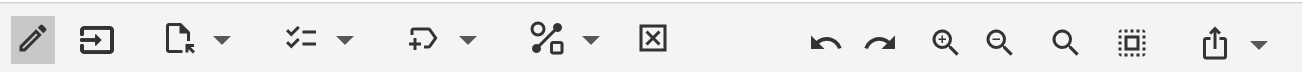
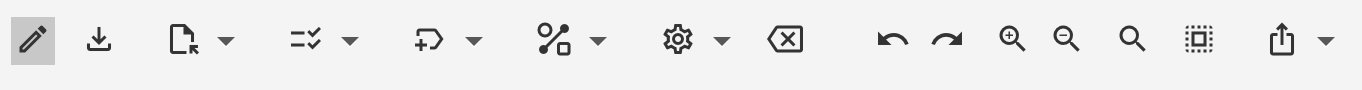
updated user manual

diff --git a/doc/phylosketch-user-manual.md b/doc/phylosketch-user-manual.md
@@ -140,6 +140,22 @@ Other items for modifying the tree or network:
 
 * Change Root - all the root of the tree or network to be changed by selecting a new node or edge.
 
+### Settings Menu Button
+
+The Settings Menu contains the following items.
+
+- **Increase Font** - Increases the font size of node labels.
+- **Decrease Font** - Decreases the font size of node labels.
+- **Bold** - Formats node labels in bold.
+- **Italic** - Formats node labels in italics.
+- **Small Node** - Adjusts the size of nodes to small.
+- **Medium Node** - Adjusts the size of nodes to medium.
+- **Large Node** - Adjusts the size of the nodes to large.
+- **Thin Edge** - Sets the thickness of edges to thin.
+- **Medium Edge** - Sets the thickness of edges to medium.
+- **Thick Edge** - Sets the thickness of edges to thick.
+-
+
 ### Other Toolbar Buttons
 
 * Delete - remove currently selected nodes and/or edges.
@@ -181,6 +197,26 @@ tree or network might have, such as `network`, `tree-based network`, or `tempora
 * Use the toolbar to set weights, confidence values, or probabilities for selected edges.
 * Toggle the display of these properties using options in the Label Menu.
 
+### Styling Node Labels
+
+Node labels can be styled using a non-standard set of HTML-like tags.
+Select the node to be styled and use the context menu to edit the label.
+Here are the supported tags:
+
+- `<i>text</i>`: Text in italics
+- `<b>text</b>`: Text in bold
+- `<sup>text</sup>`: Text as superscript
+- `<sub>text</sub>`: Text as subscript
+- `<u>text</u>`: Text underlined
+- `<a>text</a>`: Text with strike-through
+- `<br>`: Start a new line
+- `<font "font-name">text</font>`: Text with a specific font
+- `<size "font-size">text</size>`: Text with a specific font size
+- `<c "font-color">text</c>`: Text with a specific font color
+- `<bg "bg-color">text</bg>`: Text with a specific background color
+- `<mark shape="value" width="value" height="value" fill="color" stroke="color">`: Adds a mark. Possible marks
+  are `Square`, `Circle`, `TriangleUp`, `TriangleDown`, `Diamond`, `Hexagon`, `Rectangle`, `Oval` and `None`.
+- `<img src="url" alt="text" width="value" height="value">`: Adds an image.
 ### Exporting and Sharing
 
 * Use the Export Menu to copy the current selection or save a snapshot of the canvas.
